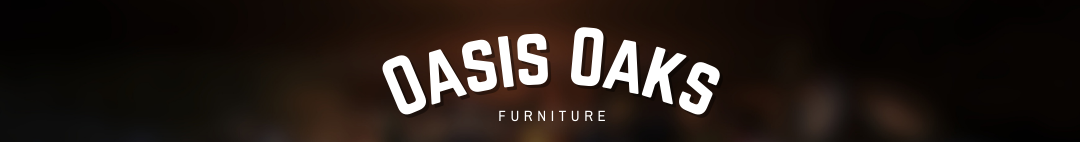
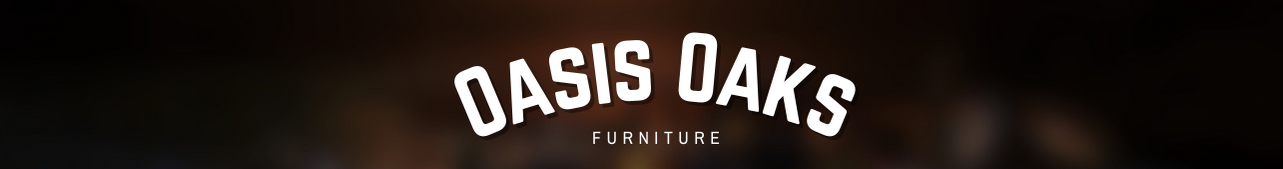
Adjusted header size

diff --git a/css/style.css b/css/style.css
@@ -1,6 +1,6 @@
 h1 {
     width:500px;
-    margin: 0 auto;
+    margin: -25 auto;
     background: rgb(255, 255, 255);
     text-align: center;
 }
